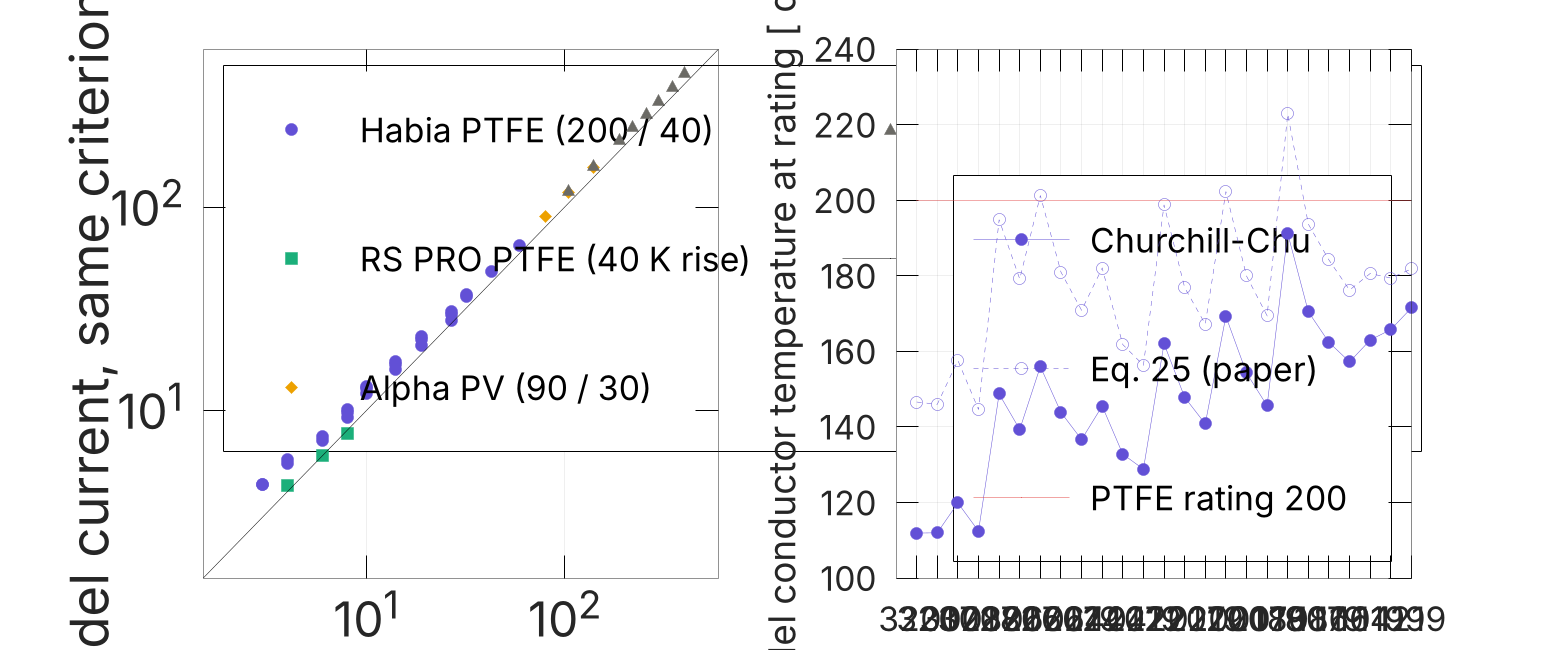
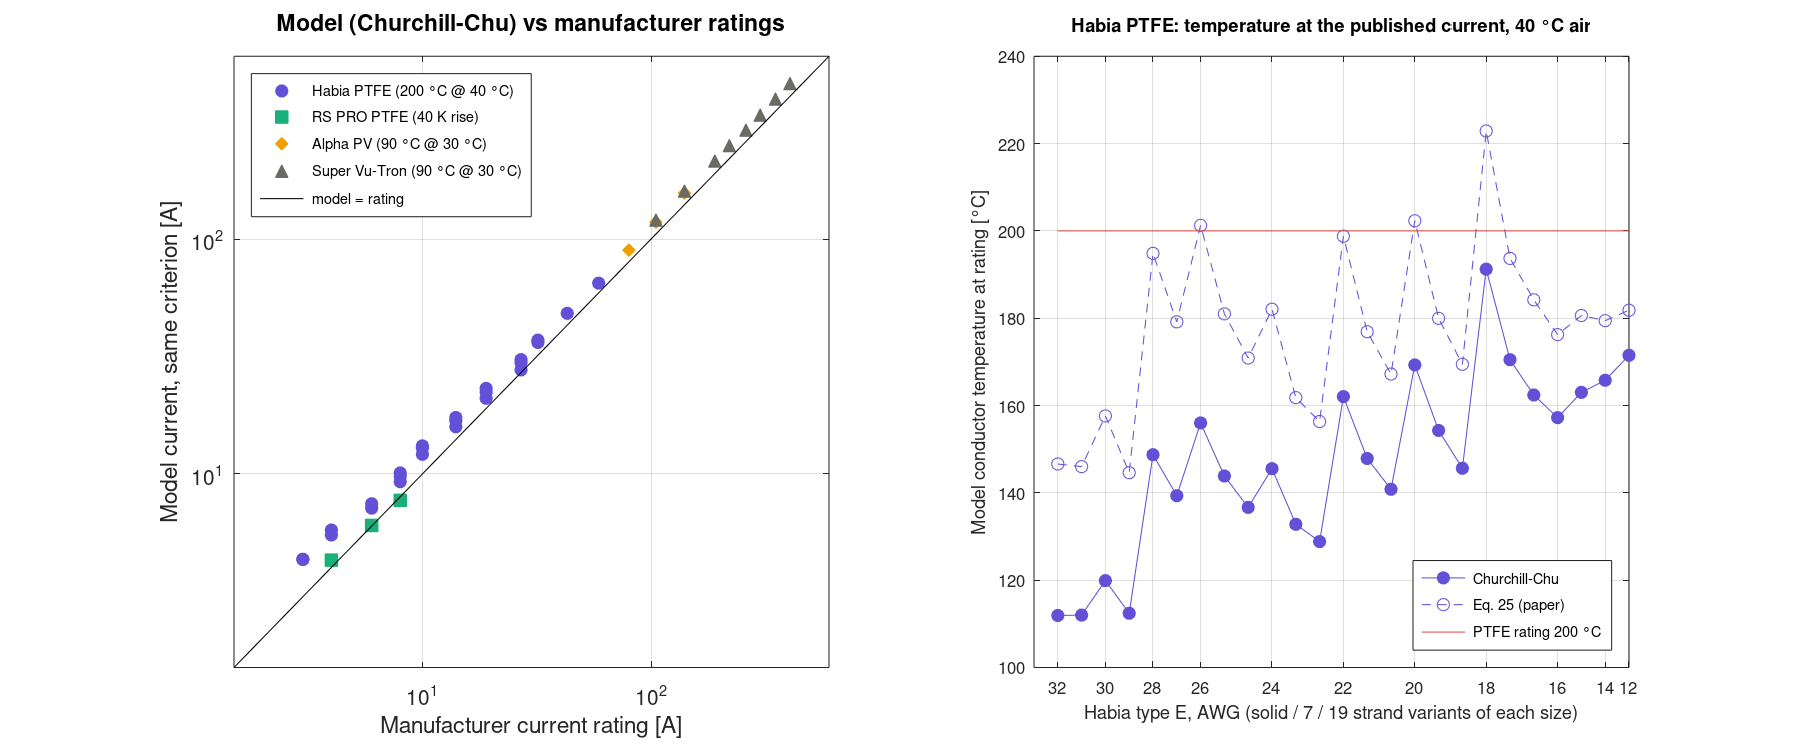
MATLAB: wire-study figures rendered with Octave Qt toolkit; tidy labels
Full Octave wire campaign (337 parts) matches the Python results within
1e-5 relative for all 327 simulated parts.

Claude-Session: https://claude.ai/code/session_01NvewmNvfB2gMbfc86z3ryK

diff --git a/matlab/run_wire_study.m b/matlab/run_wire_study.m
@@ -73,7 +73,7 @@ for gi = 1:numel(groups)
 end
 set(gca, 'yscale', 'log', 'xtick', 1:numel(awgs), 'xticklabel', awgs, 'fontsize', 8);
 xlabel('Conductor size [AWG]'); ylabel('Model ampacity [A]'); ct_legend('northwest');
-title(ct_lbl(sprintf('Ampacity at the rated conductor temperature, still air %g %sC (%s)', AMBIENT, deg, CONV)));
+title(ct_lbl(sprintf('Ampacity at the rated conductor temperature, still air %g %sC (%s)', AMBIENT, deg, strrep(CONV, '_', '-'))));
 ct_save_fig(f, fullfile(out, 'fig21_wire_ampacity_by_material.png'));
 
 %% 3. Comparison with manufacturer current ratings
@@ -153,8 +153,10 @@ subplot(1, 2, 2); hold on; box on; grid on;
 plot(1:size(H, 1), H(:, 2), 'o-', 'color', P.violet, 'markerfacecolor', P.violet, 'displayname', 'Churchill-Chu');
 plot(1:size(H, 1), H(:, 3), 'o--', 'color', P.violet, 'displayname', 'Eq. 25 (paper)');
 plot([1 size(H, 1)], [200 200], '-', 'color', P.red, 'displayname', ct_lbl(['PTFE rating 200 ' deg 'C']));
-set(gca, 'xtick', 1:size(H, 1), 'xticklabel', cellfun(@(r) strrep(r.type, 'E ', ''), hrows, 'uniformoutput', false), 'fontsize', 7);
-xlabel('Habia type E'); ylabel(ct_lbl(['Model conductor temperature at rating [' deg 'C]'])); ct_legend('southeast');
+awg_h = cellfun(@(r) r.awg, hrows, 'uniformoutput', false);
+first = [true, ~strcmp(awg_h(2:end), awg_h(1:end - 1))];
+set(gca, 'xtick', find(first), 'xticklabel', awg_h(first), 'fontsize', 8);
+xlabel('Habia type E, AWG (solid / 7 / 19 strand variants of each size)'); ylabel(ct_lbl(['Model conductor temperature at rating [' deg 'C]'])); ct_legend('southeast');
 title(ct_lbl(['Habia PTFE: temperature at the published current, 40 ' deg 'C air']));
 ct_save_fig(f, fullfile(out, 'fig23_model_vs_manufacturer_ratings.png'));
 
